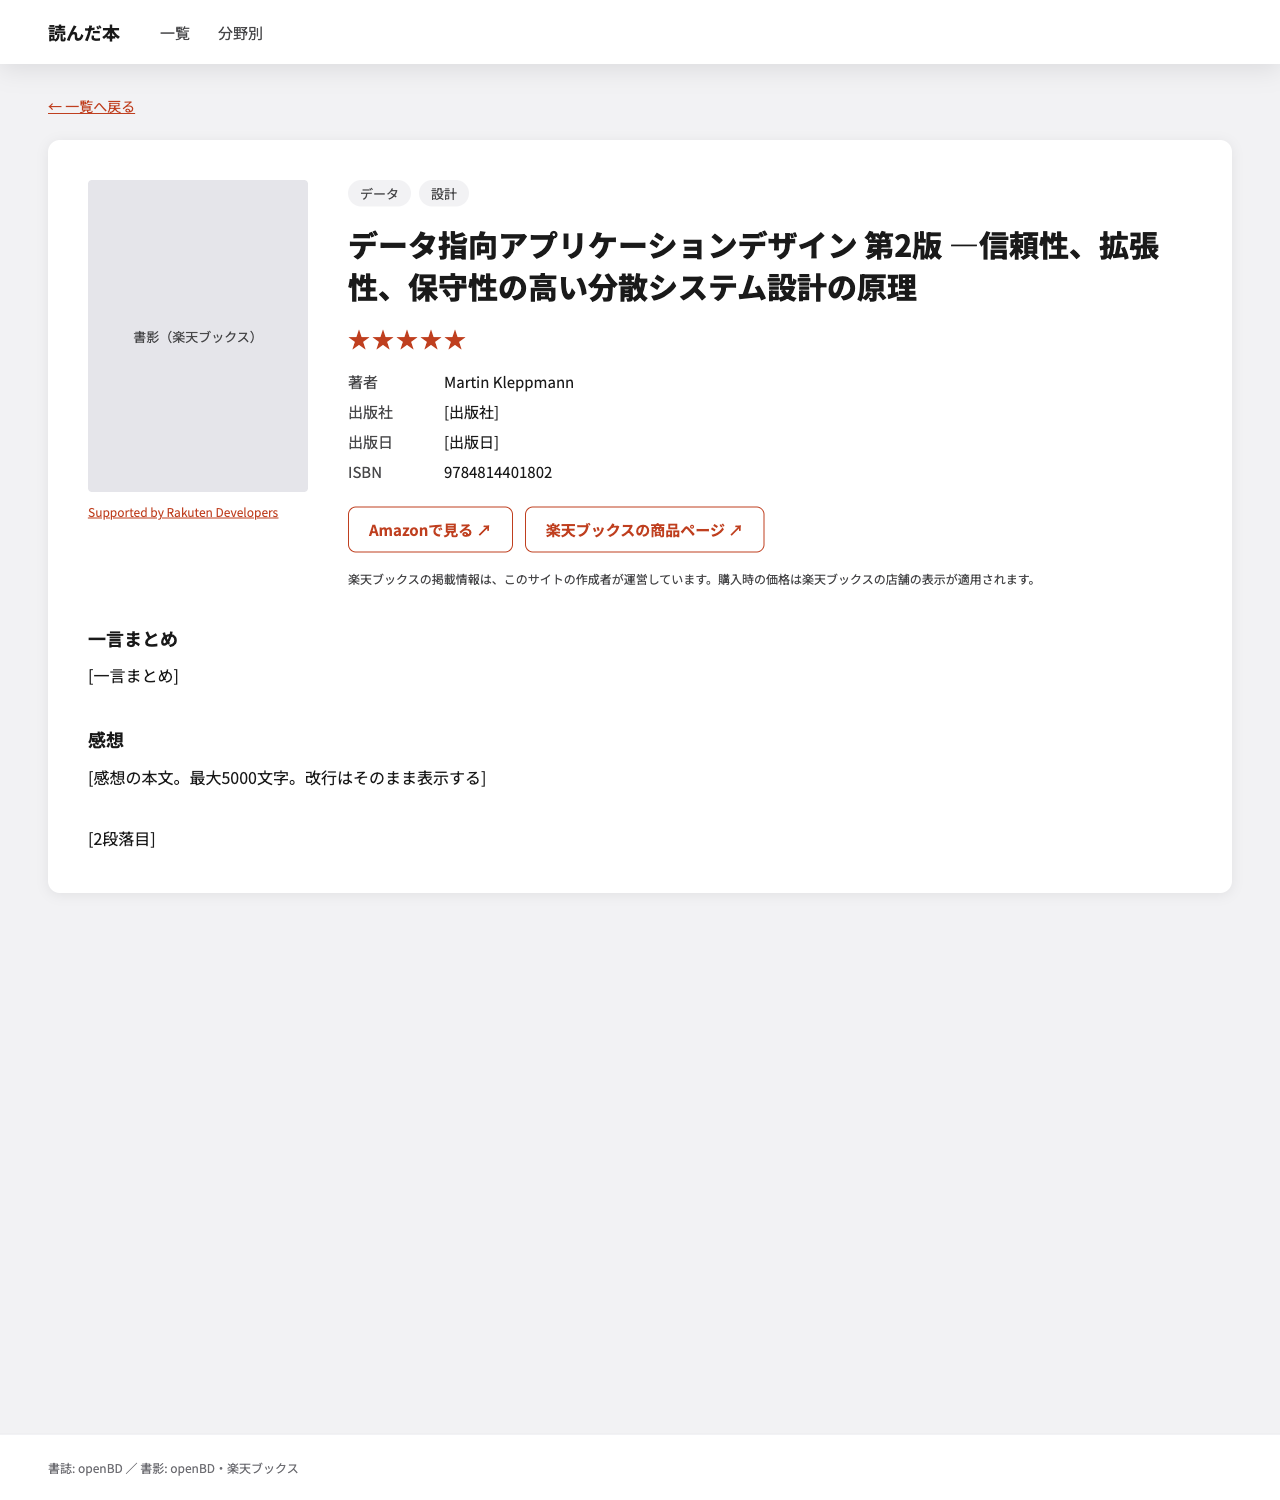
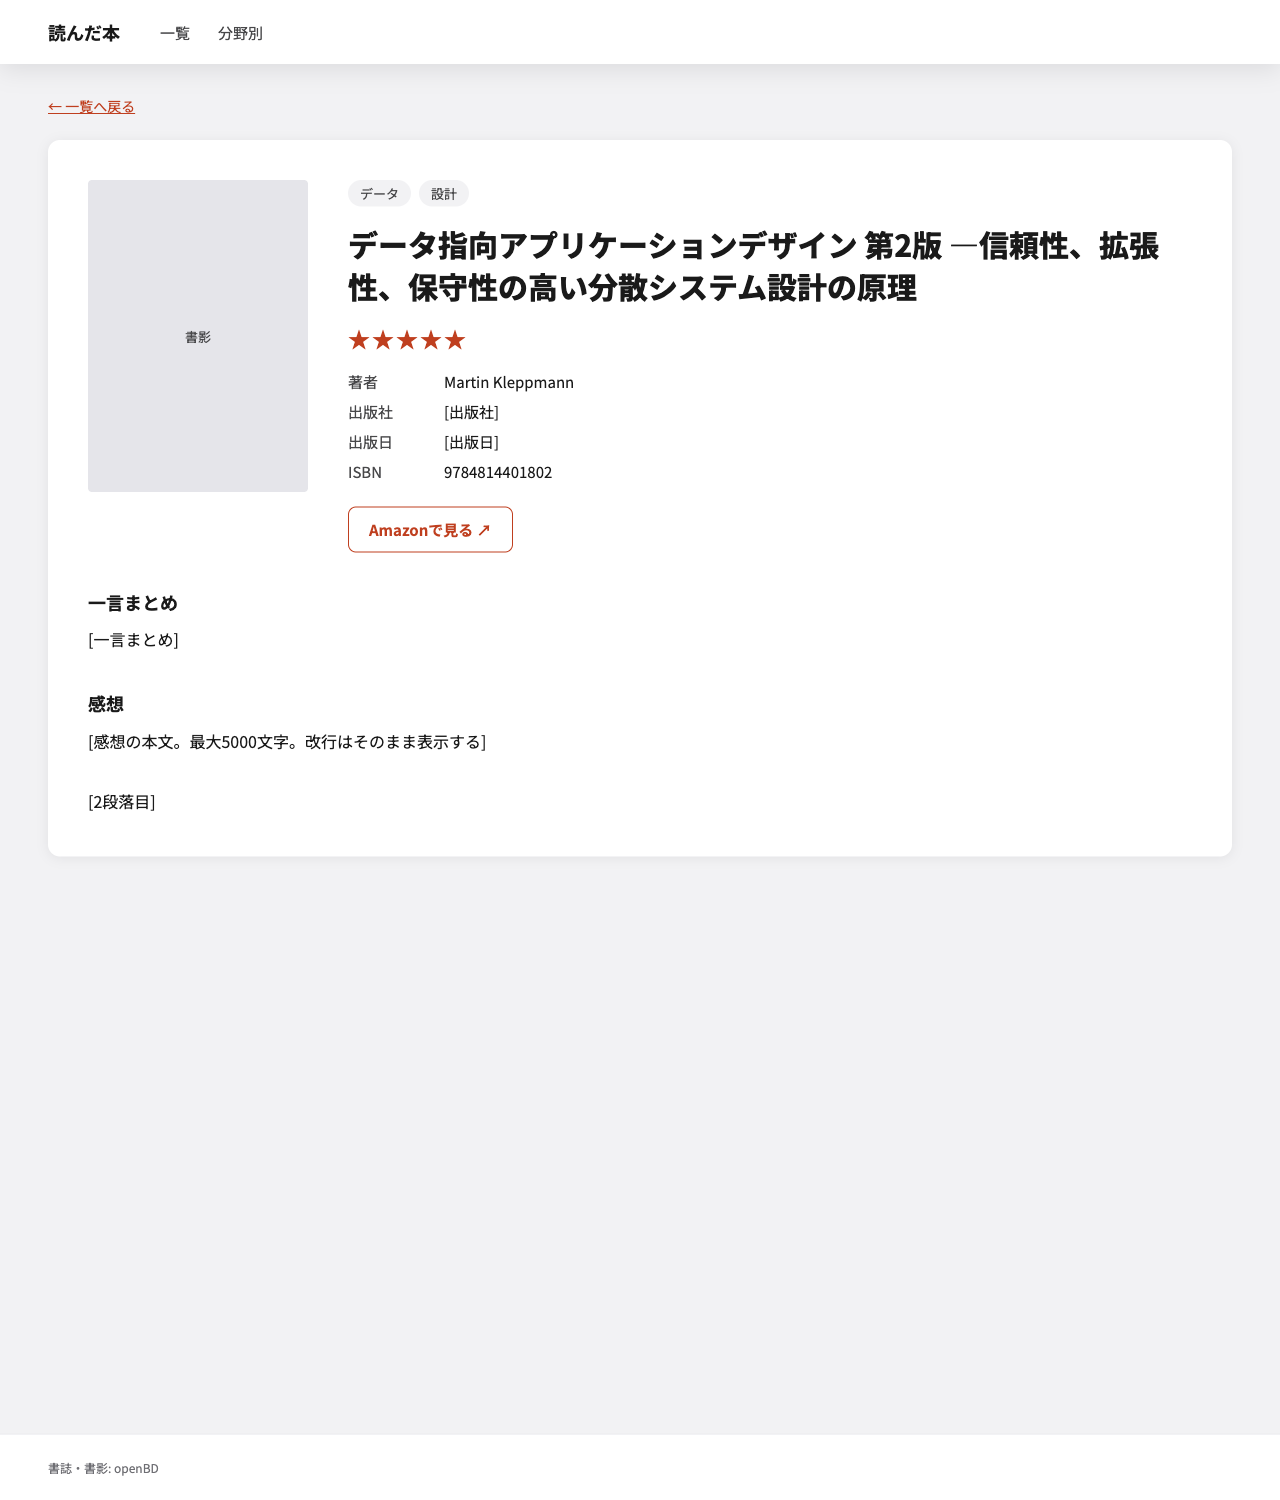
chore: 文書と画面イメージから楽天の記述を消す

diff --git a/docs/design/public-screens/detail.html b/docs/design/public-screens/detail.html
@@ -26,8 +26,7 @@ a{color:#bf3f1f}a:hover{color:#922d15}
     <article style="background: #ffffff; border-radius: 12px; box-shadow: 0 2px 12px rgba(20,20,28,0.08); padding: 40px; display: flex; flex-direction: column; gap: 36px">
       <div style="display: flex; gap: 40px">
         <div style="display: flex; flex-direction: column; gap: 10px; width: 220px; flex-shrink: 0">
-          <div style="width: 220px; height: 312px; background: #e5e5ea; border-radius: 4px; display: flex; align-items: center; justify-content: center; font-size: 13px; color: #48484a">書影（楽天ブックス）</div>
-          <p style="margin: 0; font-size: 12px; line-height: 1.6; color: #48484a"><a href="https://webservice.rakuten.co.jp/">Supported by Rakuten Developers</a></p>
+          <div style="width: 220px; height: 312px; background: #e5e5ea; border-radius: 4px; display: flex; align-items: center; justify-content: center; font-size: 13px; color: #48484a">書影</div>
         </div>
 
         <div style="display: flex; flex-direction: column; gap: 16px; flex-grow: 1; min-width: 0">
@@ -45,9 +44,7 @@ a{color:#bf3f1f}a:hover{color:#922d15}
           </dl>
           <div style="display: flex; gap: 12px; flex-wrap: wrap; margin-top: 8px">
             <a href="#" style="height: 44px; display: inline-flex; align-items: center; padding: 0 20px; border: 1px solid #bf3f1f; border-radius: 8px; font-size: 15px; font-weight: 700; text-decoration: none">Amazonで見る ↗</a>
-            <a href="#" style="height: 44px; display: inline-flex; align-items: center; padding: 0 20px; border: 1px solid #bf3f1f; border-radius: 8px; font-size: 15px; font-weight: 700; text-decoration: none">楽天ブックスの商品ページ ↗</a>
           </div>
-          <p style="margin: 0; font-size: 12px; line-height: 1.7; color: #48484a">楽天ブックスの掲載情報は、このサイトの作成者が運営しています。購入時の価格は楽天ブックスの店舗の表示が適用されます。</p>
         </div>
       </div>
 
@@ -64,7 +61,7 @@ a{color:#bf3f1f}a:hover{color:#922d15}
     </article>
   </main>
 
-  <footer style="padding: 24px 48px; font-size: 12px; color: #6e6e73; border-top: 1px solid #e5e5ea; background: #ffffff">書誌: openBD ／ 書影: openBD・楽天ブックス</footer>
+  <footer style="padding: 24px 48px; font-size: 12px; color: #6e6e73; border-top: 1px solid #e5e5ea; background: #ffffff">書誌・書影: openBD</footer>
 </div>
 </body>
 </html>

diff --git a/docs/design/public-screens/counts.html b/docs/design/public-screens/counts.html
@@ -82,7 +82,7 @@ a{color:#bf3f1f}a:hover{color:#922d15}
     <p style="margin: 0; font-size: 13px; color: #48484a">冊数の多い順。本が付いていない分野は表示しません。</p>
   </main>
 
-  <footer style="padding: 24px 48px; font-size: 12px; color: #6e6e73; border-top: 1px solid #e5e5ea; background: #ffffff">書誌: openBD ／ 書影: openBD・楽天ブックス</footer>
+  <footer style="padding: 24px 48px; font-size: 12px; color: #6e6e73; border-top: 1px solid #e5e5ea; background: #ffffff">書誌・書影: openBD</footer>
 </div>
 </body>
 </html>

diff --git a/docs/design/public-screens/list.html b/docs/design/public-screens/list.html
@@ -153,7 +153,7 @@ a{color:#bf3f1f}a:hover{color:#922d15}
     </div>
   </main>
 
-  <footer style="padding: 24px 48px; font-size: 12px; color: #6e6e73; border-top: 1px solid #e5e5ea; background: #ffffff">書誌: openBD ／ 書影: openBD・楽天ブックス</footer>
+  <footer style="padding: 24px 48px; font-size: 12px; color: #6e6e73; border-top: 1px solid #e5e5ea; background: #ffffff">書誌・書影: openBD</footer>
 </div>
 </body>
 </html>

diff --git a/README.md b/README.md
@@ -15,7 +15,7 @@
 
 | 対象 | できること | 状況 |
 |---|---|---|
-| API | 本の登録・更新・削除（ISBN から書誌を openBD、書影を openBD／楽天ブックスで取得）。一覧のキーワード検索と分野タグでの絞り込み、分野タグごとの冊数、楽天由来の情報の期限管理、起動時の見本データ投入 | 実装済み（API の一覧は [`backend/architecture.md`](./backend/architecture.md#プロダクト-api-範囲)） |
+| API | 本の登録・更新・削除（ISBN から書誌と書影を openBD で取得）。一覧のキーワード検索と分野タグでの絞り込み、分野タグごとの冊数、起動時の見本データ投入 | 実装済み（API の一覧は [`backend/architecture.md`](./backend/architecture.md#プロダクト-api-範囲)） |
 | 公開画面 | 一覧（検索・絞り込み・ページング）、詳細、分野別の集計。誰でも見られる | 実装中 |
 | 管理画面 | ログイン、本の登録・編集・削除、タグの管理。自分だけが使う | 未着手 |
 
@@ -28,7 +28,7 @@
 | バックエンドの層 | オニオンアーキテクチャ（Presentation → UseCase → Domain ← Infrastructure）。Domain は Echo・GORM・SQL・外部 API に依存しない | [`backend/architecture.md` §2](./backend/architecture.md#2-層と依存) |
 | 読み書きの分離 | CQRS。書き込みは Repository と Command DTO、読み取りは Read Model を返す Query に分ける（DB は1つ） | [`backend/architecture.md` §2](./backend/architecture.md#cqrsrepository-と-query) |
 | API の契約 | Go の DTO と Handler を正とし、swag で OpenAPI を出力。フロントは Orval で TypeScript の型とクライアントを生成する。生成物は手で直さず、CI で再生成してずれがあれば落とす | [`docs/architecture.md` §4](./docs/architecture.md#4-openapi--型契約境界) |
-| 外部カタログ | 書誌は openBD だけから取る。書影は openBD に無ければ楽天で補い、楽天の規約（保持は最長3か月）に合わせて期限を管理する | [ADR](./docs/adr/2026-09-28-rakuten-for-cover-only.md)・[設計](./docs/superpowers/specs/2026-09-28-rakuten-expiry-design.md) |
+| 外部カタログ | 書誌と書影は openBD から取り、提供元の URL をそのまま表示する（画像は保存しない）。取得元ごとの期限管理は持たない | [ADR](./docs/adr/2026-09-29-cover-from-google-books-and-openbd.md)・[設計](./docs/superpowers/specs/2026-09-29-cover-sources-design.md) |
 | フロントエンド | React + Vite + TypeScript。UI はデジタル庁デザインシステム。サーバー状態は TanStack Query、表示とロジックは hooks とコンポーネントに分ける | [`frontend/architecture.md`](./frontend/architecture.md) |
 
 ## AI との協業とハーネス
@@ -91,7 +91,7 @@ make tools
 make db-up                # PostgreSQL
 make migrate-up
 make run                  # http://localhost:8080/health
-# 書き込み系 API は Authorization: Bearer local-admin-token（ローカルの既定値）。書影を楽天で補う場合は RAKUTEN_APPLICATION_ID / RAKUTEN_ACCESS_KEY を設定（backend/README.md）
+# 書き込み系 API は Authorization: Bearer local-admin-token（ローカルの既定値）
 
 # フロントエンド（別ターミナル）
 cd frontend
@@ -102,7 +102,7 @@ pnpm dev                  # http://localhost:3000
 詳細は [`backend/README.md`](./backend/README.md) / [`frontend/README.md`](./frontend/README.md)。
 
 ```
-backend/    # Go / Echo API（PostgreSQL + GORM / golang-migrate / swag。書誌・書影は openBD / 楽天ブックス API）
+backend/    # Go / Echo API（PostgreSQL + GORM / golang-migrate / swag。書誌・書影は openBD）
 frontend/   # React + Vite + TypeScript（pnpm workspace: web, packages/ui）
 docs/       # 方針・ルール・ADR
 ```

diff --git a/backend/architecture.md b/backend/architecture.md
@@ -21,7 +21,7 @@
 | マイグレーション | **golang-migrate**（`backend/migrations/` が SQL の正。アプリ起動時 migrate しない） |
 | HTTP / OpenAPI | Echo + validator + swag。**Go の DTO／Handler が BE の正** |
 | FE 契約 | swag **排出 OpenAPI → TypeScript 生成は必須**（手編集禁止・CI ドリフト検知） |
-| 書誌・書影 | 外部カタログ。Domain の `book.BookCatalog`（ExternalGateway）を `infrastructure/gateway/openbd`・`rakuten` が実装し、`gateway/catalog` が「書誌は openBD だけから取り、書影が無ければ楽天で補う」形に組み合わせる。画像は保存しない |
+| 書誌・書影 | 外部カタログ。Domain の `book.BookCatalog`（ExternalGateway）を `infrastructure/gateway/openbd` が実装する。画像は保存しない（[ADR](../docs/adr/2026-09-29-cover-from-google-books-and-openbd.md)） |
 | 認証 | 書き込み系だけ管理者トークン（`presentation/http/common.RequireAdminToken`）。閲覧は認証なし |
 | ツールチェーン | **mise で Go 版を固定**（リポジトリ直下 `.mise.toml`。`go.mod` と揃える） |
 | ローカル開発 | API は**ホストの Go**、DB は **Docker Compose**。Dev Container なし |
@@ -179,7 +179,6 @@ backend/
 | `POST` | `/api/books` | 読んだ本を登録する（`isbn`・`summary`・`comment`・`rating`、任意で `titleOverride`・分野タグ（`tagIds`）。書誌と書影は ISBN で外部カタログから取得。openBD に無ければ 400、同じ ISBN は 409） | 必要 |
 | `PUT` | `/api/books/{id}` | 一言まとめ・感想・評価・書名の上書き・分野タグ（`tagIds`）を更新する（楽観的ロック。書誌と書影を取り直す） | 必要 |
 | `DELETE` | `/api/books/{id}` | 読んだ本を削除する | 必要 |
-| `DELETE` | `/api/books/{id}/rakuten` | 楽天から削除の指示を受けた本の楽天由来の情報を消す（以後その本に楽天の書影を付けない。楽天の情報を持たない本でも204） | 必要 |
 | `GET` | `/api/catalog/{isbn}` | 登録前に、ISBN で外部カタログの書誌と書影を確かめる | 必要 |
 | `GET` | `/api/tags` | 分野タグの一覧 | 不要 |
 | `GET` | `/api/tags/counts` | 分野タグごとの冊数（本が付いていないタグは含めない。冊数の多い順、同数ならタグ名順） | 不要 |
@@ -188,9 +187,7 @@ backend/
 | `DELETE` | `/api/tags/{id}` | 分野タグを削除する（付いていた本からは自動で外れる） | 必要 |
 
 - 認証は `Authorization: Bearer <ADMIN_TOKEN>`。自分だけが書き込めればよいので、ユーザー管理は持たない
-- 書影は提供元の URL をそのまま返す。`coverSource` が `rakuten` なら画面に楽天ウェブサービスのクレジット表示が必要（[ADR](../docs/adr/2026-09-28-book-cover-from-external-catalogs.md)）
-- 楽天の書影は楽天の商品ページ（`coverProductUrl`）と一緒に返す。取得から89日以上経過した楽天の書影は返さない（楽天の規約の保持期限）（[設計](../docs/superpowers/specs/2026-09-28-rakuten-expiry-design.md)）
-- 楽天の書影は、API の起動時・稼働中は1日1回・本の更新時に、期限が近いものを取り直す。取り直せないまま期限を過ぎたら外す
+- 書影は提供元の URL をそのまま返す（[ADR](../docs/adr/2026-09-28-book-cover-from-external-catalogs.md)）。登録と更新のたびに取り直す
 
 ## 5. やらないこと（全体）
 

diff --git a/backend/README.md b/backend/README.md
@@ -31,7 +31,7 @@ make swagger
 ## 現状
 
 - 読んだ本の API（一覧・詳細・登録・更新・削除）とカタログの確認 API、分野タグの API（一覧・追加・改名・削除）（範囲は `architecture.md` §4）
-- 書誌は ISBN で openBD から取得し、書影が無ければ楽天ブックスで補う（楽天は任意。書誌は楽天から取らない）
+- 書誌と書影は ISBN で openBD から取得する
 - 書き込み系は管理者トークンが必要（`Authorization: Bearer <ADMIN_TOKEN>`）
 - Repository／Query の契約テストはローカルの PostgreSQL（`make db-up migrate-up`）に対して実行し、起動していなければ skip する。外部カタログのゲートウェイは偽の HTTP サーバに対してテストする
 - OpenAPI: `make swagger` → `backend/api/docs/`（手編集禁止。CI でドリフト検知）
@@ -42,8 +42,6 @@ make swagger
 |---|---|---|
 | `ADMIN_TOKEN` | `local-admin-token` | 書き込み系 API のトークン（既定値は開発用） |
 | `OPENBD_BASE_URL` | `https://api.openbd.jp` | openBD（登録・キー不要） |
-| `RAKUTEN_APPLICATION_ID` / `RAKUTEN_ACCESS_KEY` | なし | 楽天ウェブサービスのアプリ ID とアクセスキー（任意。両方あるときだけ書影を楽天で補う） |
-| `RAKUTEN_BASE_URL` | `https://openapi.rakuten.co.jp` | 楽天ウェブサービス |
 
 ## スタック（要約）
 
@@ -52,7 +50,7 @@ make swagger
 | HTTP | Echo + validator + swag |
 | 設計 | オニオン + DDD + CQRS（単一 DB） |
 | DB | PostgreSQL + GORM / golang-migrate |
-| 書誌・書影 | openBD（登録不要）＋楽天ブックス書籍検索 API（任意） |
+| 書誌・書影 | openBD（登録不要） |
 | FE 契約 | swag 排出 OpenAPI → TypeScript 生成（必須） |
 
 詳細は [`architecture.md`](./architecture.md)。

diff --git a/docs/architecture.md b/docs/architecture.md
@@ -1,6 +1,6 @@
 # アーキテクチャ方針
 
-自分が読んだ本を紹介するポートフォリオ。バックエンド API（Go）と Web 画面（React）を同一リポジトリで扱う。読んだ本は ISBN で登録し、書誌は openBD から、書影は openBD に無ければ楽天ブックスから取得して、自分の感想と評価を添える。閲覧は誰でも、登録・更新・削除は自分だけができる。
+自分が読んだ本を紹介するポートフォリオ。バックエンド API（Go）と Web 画面（React）を同一リポジトリで扱う。読んだ本は ISBN で登録し、書誌と書影は外部カタログ（openBD）から取得して、自分の感想と評価を添える。閲覧は誰でも、登録・更新・削除は自分だけができる。
 
 ## 文書の言語
 

diff --git a/docs/superpowers/specs/2026-09-28-rakuten-expiry-design.md b/docs/superpowers/specs/2026-09-28-rakuten-expiry-design.md
@@ -1,5 +1,7 @@
 # 楽天由来の情報の期限管理 設計
 
+> **撤去（2026-09-29）:** 楽天ブックスは撤去したため、この設計の仕組み（保持期限・取り直し・削除指示）はすべて消した。現在の方針は [書影の取得元の見直しの設計](./2026-09-29-cover-sources-design.md) を参照。
+
 **日付:** 2026-09-28
 **対象:** 要件定義 [§1.2 楽天由来の情報の持ち方](../../specifications.md)、および §1.1「楽天の商品ページ」・§2.2 の楽天の商品ページへのリンク
 **変更前の形:** [読んだ本の API 設計](./2026-09-28-reading-api-design.md)、ADR [楽天は書影を補う用途だけに使う](../../adr/2026-09-28-rakuten-for-cover-only.md)。この文書はそこからの差分だけを書く

diff --git a/docs/superpowers/specs/2026-09-29-public-screens-design.md b/docs/superpowers/specs/2026-09-29-public-screens-design.md
@@ -3,6 +3,8 @@
 **日付:** 2026-09-29
 **参照:** [要件定義 §2](../../specifications.md#2-公開画面誰でも見られる)、[画面イメージ](../../design/public-screens/README.md)
 
+> **変更（2026-09-29）:** 楽天ブックスは撤去したため、この設計の楽天のクレジット・商品ページ・注記の表示は消した（[書影の取得元の見直しの設計](./2026-09-29-cover-sources-design.md)）。
+
 誰でも見られる3画面（一覧・詳細・分野別の集計）を `frontend/web` に作る。見た目は [画面イメージ](../../design/public-screens/README.md) を正とし、振る舞いは要件定義 §2 を正とする。API は単位1で揃っているので、バックエンドは変えない。
 
 ## 画面と URL

diff --git a/docs/design/public-screens/README.md b/docs/design/public-screens/README.md
@@ -12,9 +12,9 @@
 
 ![一覧（PC）](./images/list.png)
 
-## 詳細（楽天の書影を使う本）
+## 詳細
 
-[detail.html](./detail.html) — 楽天のクレジット・商品ページへのリンク・注記を出す場合。Amazon と楽天のリンクは文言で区別する。
+[detail.html](./detail.html) — 書誌・書影・評価・分野タグ・一言まとめ・感想と、Amazon へのリンク。
 
 ![詳細](./images/detail.png)
 
